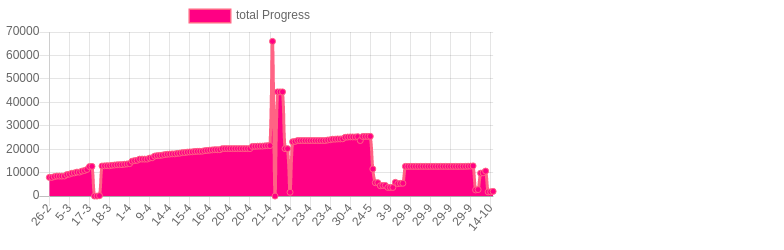
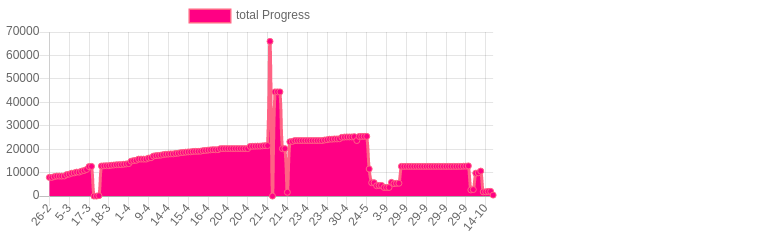
react context, localStorage, hooks

Changed region(s): [[0.0918, 0.14, 0.6429, 0.924], [0.1224, 0.7, 0.1531, 0.756], [0.0918, 0.756, 0.1224, 0.784]]

diff --git a/total.html b/total.html
@@ -9,7 +9,7 @@
         <script src="https://cdn.jsdelivr.net/npm/chart.js@2.8.0"></script>
         <script>
           var ctx = document.getElementById("total").getContext("2d");
-          const goLabelsDates = ["2021-02-27T01:37:43.112Z","2021-02-27T01:38:01.628Z","2021-03-01T13:41:18.753Z","2021-03-01T14:53:41.991Z","2021-03-01T15:08:00.851Z","2021-03-01T15:09:10.635Z","2021-03-01T15:22:55.385Z","2021-03-03T15:31:41.151Z","2021-03-05T14:02:13.446Z","2021-03-10T14:50:13.297Z","2021-03-11T01:54:03.424Z","2021-03-11T15:32:47.647Z","2021-03-11T16:01:51.191Z","2021-03-12T00:36:04.646Z","2021-03-13T00:14:58.179Z","2021-03-16T05:30:04.043Z","2021-03-17T21:17:52.181Z","2021-03-18T03:42:56.998Z","2021-03-18T03:44:29.834Z","2021-03-18T03:45:35.160Z","2021-03-18T03:45:54.668Z","2021-03-18T03:48:46.007Z","2021-03-18T05:10:54.427Z","2021-03-18T05:44:13.724Z","2021-03-18T05:56:11.032Z","2021-03-18T22:11:28.339Z","2021-03-19T11:28:55.383Z","2021-03-22T13:51:43.977Z","2021-03-23T01:52:09.452Z","2021-03-23T15:45:53.765Z","2021-03-24T01:46:02.104Z","2021-03-30T10:56:50.711Z","2021-04-01T15:03:17.764Z","2021-04-01T23:15:02.096Z","2021-04-07T19:21:55.040Z","2021-04-08T15:21:14.479Z","2021-04-09T23:17:58.037Z","2021-04-09T23:32:26.341Z","2021-04-09T23:34:42.049Z","2021-04-09T23:36:18.092Z","2021-04-10T01:45:40.218Z","2021-04-12T15:41:26.676Z","2021-04-14T02:00:41.039Z","2021-04-14T20:02:44.141Z","2021-04-14T21:14:15.821Z","2021-04-14T22:06:37.573Z","2021-04-14T22:42:14.693Z","2021-04-14T23:10:13.243Z","2021-04-14T23:22:54.824Z","2021-04-14T23:49:37.009Z","2021-04-15T02:28:51.974Z","2021-04-15T14:33:50.618Z","2021-04-15T15:09:11.104Z","2021-04-15T20:35:30.580Z","2021-04-16T00:04:33.158Z","2021-04-16T01:36:06.294Z","2021-04-16T01:53:35.992Z","2021-04-16T02:00:15.474Z","2021-04-16T16:08:40.977Z","2021-04-16T16:27:06.953Z","2021-04-16T16:59:30.526Z","2021-04-16T17:00:53.737Z","2021-04-16T23:14:36.283Z","2021-04-17T00:39:16.890Z","2021-04-17T01:11:09.986Z","2021-04-17T01:32:30.011Z","2021-04-17T01:44:22.446Z","2021-04-17T01:44:33.941Z","2021-04-17T02:35:55.774Z","2021-04-19T15:41:31.091Z","2021-04-20T15:32:32.239Z","2021-04-20T15:33:16.014Z","2021-04-20T15:36:11.438Z","2021-04-20T15:38:44.606Z","2021-04-20T15:41:50.350Z","2021-04-20T15:44:34.448Z","2021-04-20T15:46:49.295Z","2021-04-20T15:47:24.048Z","2021-04-20T15:56:22.046Z","2021-04-20T16:00:02.540Z","2021-04-20T16:01:15.511Z","2021-04-20T23:19:23.938Z","2021-04-21T00:40:54.443Z","2021-04-21T00:47:22.662Z","2021-04-21T02:01:09.006Z","2021-04-21T02:19:22.734Z","2021-04-21T15:53:36.038Z","2021-04-21T16:21:45.704Z","2021-04-21T16:26:32.790Z","2021-04-21T16:40:24.916Z","2021-04-21T16:43:40.235Z","2021-04-21T16:43:59.719Z","2021-04-21T16:44:40.304Z","2021-04-21T16:46:13.191Z","2021-04-21T16:48:41.898Z","2021-04-21T16:49:08.753Z","2021-04-21T16:50:32.397Z","2021-04-21T16:51:58.778Z","2021-04-23T00:49:32.826Z","2021-04-23T15:03:06.320Z","2021-04-23T15:04:13.039Z","2021-04-23T15:05:25.923Z","2021-04-23T15:11:04.285Z","2021-04-23T15:11:38.826Z","2021-04-23T15:12:05.618Z","2021-04-23T15:12:32.508Z","2021-04-23T15:13:17.058Z","2021-04-23T17:08:27.046Z","2021-04-23T18:02:30.357Z","2021-04-23T22:58:36.946Z","2021-04-23T23:00:26.027Z","2021-04-23T23:52:58.438Z","2021-04-24T01:12:51.525Z","2021-04-24T02:01:46.612Z","2021-04-26T12:46:47.336Z","2021-04-26T13:13:50.946Z","2021-04-26T13:16:04.473Z","2021-04-27T00:11:42.582Z","2021-04-30T03:26:37.101Z","2021-04-30T04:33:42.472Z","2021-04-30T05:15:42.646Z","2021-04-30T14:31:10.927Z","2021-05-04T01:51:49.907Z","2021-05-21T00:30:21.777Z","2021-05-24T15:07:09.579Z","2021-05-24T15:08:05.658Z","2021-05-24T15:22:20.903Z","2021-05-24T15:33:34.626Z","2021-05-24T15:46:16.101Z","2021-05-24T15:48:12.171Z","2021-05-24T15:53:54.498Z","2021-05-24T15:56:18.488Z","2021-05-28T22:50:32.914Z","2021-06-02T17:58:30.866Z","2021-07-01T05:04:25.826Z","2021-07-01T05:05:33.079Z","2021-09-03T16:56:54.023Z","2021-09-23T00:10:19.737Z","2021-09-23T00:54:30.987Z","2021-09-25T00:13:33.106Z","2021-09-25T00:56:09.874Z","2021-09-29T20:37:10.460Z","2021-09-29T20:39:45.107Z","2021-09-29T20:45:08.406Z","2021-09-29T20:45:42.995Z","2021-09-29T20:51:54.166Z","2021-09-29T21:04:45.487Z","2021-09-29T21:22:49.580Z","2021-09-29T21:23:34.860Z","2021-09-29T21:24:52.804Z","2021-09-29T21:25:12.938Z","2021-09-29T21:31:41.466Z","2021-09-29T21:32:02.856Z","2021-09-29T21:32:15.096Z","2021-09-29T21:37:01.273Z","2021-09-29T21:39:46.109Z","2021-09-29T21:40:23.862Z","2021-09-29T21:41:38.242Z","2021-09-29T21:45:36.053Z","2021-09-29T21:48:31.229Z","2021-09-29T21:49:46.414Z","2021-09-29T21:50:16.628Z","2021-09-29T21:52:23.035Z","2021-09-29T21:58:46.153Z","2021-09-29T21:59:06.075Z","2021-09-29T22:09:34.545Z","2021-09-29T22:24:59.487Z","2021-09-29T22:39:38.616Z","2021-09-29T23:07:40.178Z","2021-10-01T13:21:48.217Z","2021-10-01T14:11:47.682Z","2021-10-05T00:24:42.303Z","2021-10-05T14:36:34.233Z","2021-10-05T15:30:47.628Z","2021-10-13T14:16:32.194Z","2021-10-14T20:31:14.540Z","2021-10-15T02:04:50.667Z","2021-10-22T22:01:46.214Z",];
+          const goLabelsDates = ["2021-02-27T01:37:43.112Z","2021-02-27T01:38:01.628Z","2021-03-01T13:41:18.753Z","2021-03-01T14:53:41.991Z","2021-03-01T15:08:00.851Z","2021-03-01T15:09:10.635Z","2021-03-01T15:22:55.385Z","2021-03-03T15:31:41.151Z","2021-03-05T14:02:13.446Z","2021-03-10T14:50:13.297Z","2021-03-11T01:54:03.424Z","2021-03-11T15:32:47.647Z","2021-03-11T16:01:51.191Z","2021-03-12T00:36:04.646Z","2021-03-13T00:14:58.179Z","2021-03-16T05:30:04.043Z","2021-03-17T21:17:52.181Z","2021-03-18T03:42:56.998Z","2021-03-18T03:44:29.834Z","2021-03-18T03:45:35.160Z","2021-03-18T03:45:54.668Z","2021-03-18T03:48:46.007Z","2021-03-18T05:10:54.427Z","2021-03-18T05:44:13.724Z","2021-03-18T05:56:11.032Z","2021-03-18T22:11:28.339Z","2021-03-19T11:28:55.383Z","2021-03-22T13:51:43.977Z","2021-03-23T01:52:09.452Z","2021-03-23T15:45:53.765Z","2021-03-24T01:46:02.104Z","2021-03-30T10:56:50.711Z","2021-04-01T15:03:17.764Z","2021-04-01T23:15:02.096Z","2021-04-07T19:21:55.040Z","2021-04-08T15:21:14.479Z","2021-04-09T23:17:58.037Z","2021-04-09T23:32:26.341Z","2021-04-09T23:34:42.049Z","2021-04-09T23:36:18.092Z","2021-04-10T01:45:40.218Z","2021-04-12T15:41:26.676Z","2021-04-14T02:00:41.039Z","2021-04-14T20:02:44.141Z","2021-04-14T21:14:15.821Z","2021-04-14T22:06:37.573Z","2021-04-14T22:42:14.693Z","2021-04-14T23:10:13.243Z","2021-04-14T23:22:54.824Z","2021-04-14T23:49:37.009Z","2021-04-15T02:28:51.974Z","2021-04-15T14:33:50.618Z","2021-04-15T15:09:11.104Z","2021-04-15T20:35:30.580Z","2021-04-16T00:04:33.158Z","2021-04-16T01:36:06.294Z","2021-04-16T01:53:35.992Z","2021-04-16T02:00:15.474Z","2021-04-16T16:08:40.977Z","2021-04-16T16:27:06.953Z","2021-04-16T16:59:30.526Z","2021-04-16T17:00:53.737Z","2021-04-16T23:14:36.283Z","2021-04-17T00:39:16.890Z","2021-04-17T01:11:09.986Z","2021-04-17T01:32:30.011Z","2021-04-17T01:44:22.446Z","2021-04-17T01:44:33.941Z","2021-04-17T02:35:55.774Z","2021-04-19T15:41:31.091Z","2021-04-20T15:32:32.239Z","2021-04-20T15:33:16.014Z","2021-04-20T15:36:11.438Z","2021-04-20T15:38:44.606Z","2021-04-20T15:41:50.350Z","2021-04-20T15:44:34.448Z","2021-04-20T15:46:49.295Z","2021-04-20T15:47:24.048Z","2021-04-20T15:56:22.046Z","2021-04-20T16:00:02.540Z","2021-04-20T16:01:15.511Z","2021-04-20T23:19:23.938Z","2021-04-21T00:40:54.443Z","2021-04-21T00:47:22.662Z","2021-04-21T02:01:09.006Z","2021-04-21T02:19:22.734Z","2021-04-21T15:53:36.038Z","2021-04-21T16:21:45.704Z","2021-04-21T16:26:32.790Z","2021-04-21T16:40:24.916Z","2021-04-21T16:43:40.235Z","2021-04-21T16:43:59.719Z","2021-04-21T16:44:40.304Z","2021-04-21T16:46:13.191Z","2021-04-21T16:48:41.898Z","2021-04-21T16:49:08.753Z","2021-04-21T16:50:32.397Z","2021-04-21T16:51:58.778Z","2021-04-23T00:49:32.826Z","2021-04-23T15:03:06.320Z","2021-04-23T15:04:13.039Z","2021-04-23T15:05:25.923Z","2021-04-23T15:11:04.285Z","2021-04-23T15:11:38.826Z","2021-04-23T15:12:05.618Z","2021-04-23T15:12:32.508Z","2021-04-23T15:13:17.058Z","2021-04-23T17:08:27.046Z","2021-04-23T18:02:30.357Z","2021-04-23T22:58:36.946Z","2021-04-23T23:00:26.027Z","2021-04-23T23:52:58.438Z","2021-04-24T01:12:51.525Z","2021-04-24T02:01:46.612Z","2021-04-26T12:46:47.336Z","2021-04-26T13:13:50.946Z","2021-04-26T13:16:04.473Z","2021-04-27T00:11:42.582Z","2021-04-30T03:26:37.101Z","2021-04-30T04:33:42.472Z","2021-04-30T05:15:42.646Z","2021-04-30T14:31:10.927Z","2021-05-04T01:51:49.907Z","2021-05-21T00:30:21.777Z","2021-05-24T15:07:09.579Z","2021-05-24T15:08:05.658Z","2021-05-24T15:22:20.903Z","2021-05-24T15:33:34.626Z","2021-05-24T15:46:16.101Z","2021-05-24T15:48:12.171Z","2021-05-24T15:53:54.498Z","2021-05-24T15:56:18.488Z","2021-05-28T22:50:32.914Z","2021-06-02T17:58:30.866Z","2021-07-01T05:04:25.826Z","2021-07-01T05:05:33.079Z","2021-09-03T16:56:54.023Z","2021-09-23T00:10:19.737Z","2021-09-23T00:54:30.987Z","2021-09-25T00:13:33.106Z","2021-09-25T00:56:09.874Z","2021-09-29T20:37:10.460Z","2021-09-29T20:39:45.107Z","2021-09-29T20:45:08.406Z","2021-09-29T20:45:42.995Z","2021-09-29T20:51:54.166Z","2021-09-29T21:04:45.487Z","2021-09-29T21:22:49.580Z","2021-09-29T21:23:34.860Z","2021-09-29T21:24:52.804Z","2021-09-29T21:25:12.938Z","2021-09-29T21:31:41.466Z","2021-09-29T21:32:02.856Z","2021-09-29T21:32:15.096Z","2021-09-29T21:37:01.273Z","2021-09-29T21:39:46.109Z","2021-09-29T21:40:23.862Z","2021-09-29T21:41:38.242Z","2021-09-29T21:45:36.053Z","2021-09-29T21:48:31.229Z","2021-09-29T21:49:46.414Z","2021-09-29T21:50:16.628Z","2021-09-29T21:52:23.035Z","2021-09-29T21:58:46.153Z","2021-09-29T21:59:06.075Z","2021-09-29T22:09:34.545Z","2021-09-29T22:24:59.487Z","2021-09-29T22:39:38.616Z","2021-09-29T23:07:40.178Z","2021-10-01T13:21:48.217Z","2021-10-01T14:11:47.682Z","2021-10-05T00:24:42.303Z","2021-10-05T14:36:34.233Z","2021-10-05T15:30:47.628Z","2021-10-13T14:16:32.194Z","2021-10-14T20:31:14.540Z","2021-10-15T02:04:50.667Z","2021-10-22T22:01:46.214Z","2021-10-26T00:04:54.365Z","2021-10-26T00:05:44.432Z",];
           var chart = new Chart(ctx, {
             type: 'line',
             data: {
@@ -18,7 +18,7 @@
                 label: 'total Progress',
                 backgroundColor: 'rgb(255, 0, 132)',
                 borderColor: 'rgb(255, 99, 132)',
-                data: [7975,7975,8307,8526,8526,8527,8573,9171,9358,9751,9908,10232,10231,10643,10911,11353,12576,12666,0,0,169,12835,12906,12953,12953,13141,13254,13354,13406,13417,13568,13708,13845,14886,15140,15267,15766,15777,15777,15777,16211,16345,17062,17247,17324,17464,17697,17849,17916,18002,18002,18202,18292,18515,18590,18744,18837,18876,19030,19086,19114,19143,19378,19465,19607,19714,19782,19782,19791,20220,20257,20257,20257,20257,20257,20257,20257,20257,20257,20257,20257,21179,21238,21279,21319,21319,21430,21506,21543,65995,0,44452,44452,44452,20233,20233,1629,23172,23326,23693,23693,23693,23693,23693,23693,23693,23693,23693,23693,23693,23693,23905,24023,24262,24275,24376,24376,24452,25078,25182,25238,25232,25233,25334,23696,25427,25453,25466,25491,11565,5707,5707,4421,4535,4535,3678,3678,3678,5861,5318,5422,5473,12667,12667,12667,12667,12667,12667,12667,12667,12667,12667,12667,12667,12667,12667,12667,12667,12667,12667,12658,12658,12657,12657,12657,12657,12683,12736,12779,12888,2619,2775,9772,9922,10674,1795,1824,2002,]
+                data: [7975,7975,8307,8526,8526,8527,8573,9171,9358,9751,9908,10232,10231,10643,10911,11353,12576,12666,0,0,169,12835,12906,12953,12953,13141,13254,13354,13406,13417,13568,13708,13845,14886,15140,15267,15766,15777,15777,15777,16211,16345,17062,17247,17324,17464,17697,17849,17916,18002,18002,18202,18292,18515,18590,18744,18837,18876,19030,19086,19114,19143,19378,19465,19607,19714,19782,19782,19791,20220,20257,20257,20257,20257,20257,20257,20257,20257,20257,20257,20257,21179,21238,21279,21319,21319,21430,21506,21543,65995,0,44452,44452,44452,20233,20233,1629,23172,23326,23693,23693,23693,23693,23693,23693,23693,23693,23693,23693,23693,23693,23905,24023,24262,24275,24376,24376,24452,25078,25182,25238,25232,25233,25334,23696,25427,25453,25466,25491,11565,5707,5707,4421,4535,4535,3678,3678,3678,5861,5318,5422,5473,12667,12667,12667,12667,12667,12667,12667,12667,12667,12667,12667,12667,12667,12667,12667,12667,12667,12667,12658,12658,12657,12657,12657,12657,12683,12736,12779,12888,2619,2775,9772,9922,10674,1795,1824,2002,2000,422,]
               }]
             },
           });

diff --git a/denti-code.html b/denti-code.html
@@ -9,7 +9,7 @@
         <script src="https://cdn.jsdelivr.net/npm/chart.js@2.8.0"></script>
         <script>
           var ctx = document.getElementById("denti-code").getContext("2d");
-          const goLabelsDates = ["2021-03-18T03:42:56.996Z","2021-03-18T03:48:46.006Z","2021-03-18T05:10:54.426Z","2021-03-18T05:44:13.723Z","2021-03-18T05:56:11.031Z","2021-03-18T22:11:28.338Z","2021-03-19T11:28:55.381Z","2021-03-22T13:51:43.975Z","2021-03-23T01:52:09.450Z","2021-03-23T15:45:53.764Z","2021-03-24T01:46:02.102Z","2021-03-30T10:56:50.709Z","2021-04-01T15:03:17.762Z","2021-04-01T23:15:02.094Z","2021-04-07T19:21:55.037Z","2021-04-08T15:21:14.477Z","2021-04-09T23:17:58.034Z","2021-04-09T23:32:26.338Z","2021-04-09T23:34:42.046Z","2021-04-09T23:36:18.090Z","2021-04-10T01:45:40.216Z","2021-04-12T15:41:26.675Z","2021-04-14T02:00:41.038Z","2021-04-14T20:02:44.139Z","2021-04-14T21:14:15.820Z","2021-04-14T22:06:37.572Z","2021-04-14T22:42:14.692Z","2021-04-14T23:10:13.242Z","2021-04-14T23:22:54.823Z","2021-04-14T23:49:37.008Z","2021-04-15T02:28:51.973Z","2021-04-15T14:33:50.618Z","2021-04-15T15:09:11.101Z","2021-04-15T20:35:30.578Z","2021-04-16T00:04:33.156Z","2021-04-16T01:36:06.292Z","2021-04-16T01:53:35.990Z","2021-04-16T02:00:15.472Z","2021-04-16T16:08:40.974Z","2021-04-16T16:27:06.951Z","2021-04-16T16:59:30.523Z","2021-04-16T17:00:53.732Z","2021-04-16T23:14:36.281Z","2021-04-17T00:39:16.887Z","2021-04-17T01:11:09.984Z","2021-04-17T01:32:30.007Z","2021-04-17T01:44:22.441Z","2021-04-17T01:44:33.939Z","2021-04-17T02:35:55.772Z","2021-04-19T15:41:31.089Z","2021-04-20T15:32:32.237Z","2021-04-20T15:33:16.012Z","2021-04-20T15:36:11.437Z","2021-04-20T15:38:44.604Z","2021-04-20T15:41:50.349Z","2021-04-20T15:44:34.447Z","2021-04-20T15:46:49.293Z","2021-04-20T15:47:24.046Z","2021-04-20T15:56:22.045Z","2021-04-20T16:00:02.538Z","2021-04-20T16:01:15.510Z","2021-04-20T23:19:23.936Z","2021-04-21T00:40:54.441Z","2021-04-21T00:47:22.661Z","2021-04-21T02:01:09.004Z","2021-04-21T02:19:22.733Z","2021-04-21T15:53:36.036Z","2021-04-21T16:21:45.702Z","2021-04-21T16:26:32.788Z","2021-04-21T16:40:24.915Z","2021-04-21T16:51:58.776Z","2021-04-23T00:49:32.825Z","2021-04-23T15:03:06.327Z","2021-04-23T15:04:13.043Z","2021-04-23T15:05:25.920Z","2021-04-23T15:13:17.062Z","2021-04-23T17:08:27.042Z","2021-04-23T18:02:30.351Z","2021-04-23T22:58:36.942Z","2021-04-23T23:00:26.024Z","2021-04-23T23:52:58.435Z","2021-04-24T01:12:51.523Z","2021-04-24T02:01:46.608Z","2021-04-26T12:46:47.335Z","2021-04-26T13:13:50.942Z","2021-04-26T13:16:04.469Z","2021-04-27T00:11:42.578Z","2021-04-30T03:26:37.095Z","2021-04-30T04:33:42.471Z","2021-04-30T05:15:42.643Z","2021-04-30T14:31:10.924Z","2021-05-04T01:51:49.904Z","2021-05-21T00:30:21.766Z","2021-05-24T15:07:09.569Z","2021-05-24T15:08:05.654Z","2021-05-24T15:22:20.898Z","2021-05-24T15:33:34.622Z","2021-05-24T15:46:16.098Z","2021-05-24T15:48:12.169Z","2021-05-24T15:53:54.497Z","2021-05-24T15:56:18.483Z","2021-10-14T20:31:14.535Z","2021-10-15T02:04:50.663Z","2021-10-22T22:01:46.203Z",];
+          const goLabelsDates = ["2021-03-18T03:42:56.996Z","2021-03-18T03:48:46.006Z","2021-03-18T05:10:54.426Z","2021-03-18T05:44:13.723Z","2021-03-18T05:56:11.031Z","2021-03-18T22:11:28.338Z","2021-03-19T11:28:55.381Z","2021-03-22T13:51:43.975Z","2021-03-23T01:52:09.450Z","2021-03-23T15:45:53.764Z","2021-03-24T01:46:02.102Z","2021-03-30T10:56:50.709Z","2021-04-01T15:03:17.762Z","2021-04-01T23:15:02.094Z","2021-04-07T19:21:55.037Z","2021-04-08T15:21:14.477Z","2021-04-09T23:17:58.034Z","2021-04-09T23:32:26.338Z","2021-04-09T23:34:42.046Z","2021-04-09T23:36:18.090Z","2021-04-10T01:45:40.216Z","2021-04-12T15:41:26.675Z","2021-04-14T02:00:41.038Z","2021-04-14T20:02:44.139Z","2021-04-14T21:14:15.820Z","2021-04-14T22:06:37.572Z","2021-04-14T22:42:14.692Z","2021-04-14T23:10:13.242Z","2021-04-14T23:22:54.823Z","2021-04-14T23:49:37.008Z","2021-04-15T02:28:51.973Z","2021-04-15T14:33:50.618Z","2021-04-15T15:09:11.101Z","2021-04-15T20:35:30.578Z","2021-04-16T00:04:33.156Z","2021-04-16T01:36:06.292Z","2021-04-16T01:53:35.990Z","2021-04-16T02:00:15.472Z","2021-04-16T16:08:40.974Z","2021-04-16T16:27:06.951Z","2021-04-16T16:59:30.523Z","2021-04-16T17:00:53.732Z","2021-04-16T23:14:36.281Z","2021-04-17T00:39:16.887Z","2021-04-17T01:11:09.984Z","2021-04-17T01:32:30.007Z","2021-04-17T01:44:22.441Z","2021-04-17T01:44:33.939Z","2021-04-17T02:35:55.772Z","2021-04-19T15:41:31.089Z","2021-04-20T15:32:32.237Z","2021-04-20T15:33:16.012Z","2021-04-20T15:36:11.437Z","2021-04-20T15:38:44.604Z","2021-04-20T15:41:50.349Z","2021-04-20T15:44:34.447Z","2021-04-20T15:46:49.293Z","2021-04-20T15:47:24.046Z","2021-04-20T15:56:22.045Z","2021-04-20T16:00:02.538Z","2021-04-20T16:01:15.510Z","2021-04-20T23:19:23.936Z","2021-04-21T00:40:54.441Z","2021-04-21T00:47:22.661Z","2021-04-21T02:01:09.004Z","2021-04-21T02:19:22.733Z","2021-04-21T15:53:36.036Z","2021-04-21T16:21:45.702Z","2021-04-21T16:26:32.788Z","2021-04-21T16:40:24.915Z","2021-04-21T16:51:58.776Z","2021-04-23T00:49:32.825Z","2021-04-23T15:03:06.327Z","2021-04-23T15:04:13.043Z","2021-04-23T15:05:25.920Z","2021-04-23T15:13:17.062Z","2021-04-23T17:08:27.042Z","2021-04-23T18:02:30.351Z","2021-04-23T22:58:36.942Z","2021-04-23T23:00:26.024Z","2021-04-23T23:52:58.435Z","2021-04-24T01:12:51.523Z","2021-04-24T02:01:46.608Z","2021-04-26T12:46:47.335Z","2021-04-26T13:13:50.942Z","2021-04-26T13:16:04.469Z","2021-04-27T00:11:42.578Z","2021-04-30T03:26:37.095Z","2021-04-30T04:33:42.471Z","2021-04-30T05:15:42.643Z","2021-04-30T14:31:10.924Z","2021-05-04T01:51:49.904Z","2021-05-21T00:30:21.766Z","2021-05-24T15:07:09.569Z","2021-05-24T15:08:05.654Z","2021-05-24T15:22:20.898Z","2021-05-24T15:33:34.622Z","2021-05-24T15:46:16.098Z","2021-05-24T15:48:12.169Z","2021-05-24T15:53:54.497Z","2021-05-24T15:56:18.483Z","2021-10-14T20:31:14.535Z","2021-10-15T02:04:50.663Z","2021-10-22T22:01:46.203Z","2021-10-26T00:04:54.361Z",];
           var chart = new Chart(ctx, {
             type: 'line',
             data: {
@@ -18,7 +18,7 @@
                 label: 'denti-code Progress',
                 backgroundColor: 'rgb(255, 0, 132)',
                 borderColor: 'rgb(255, 99, 132)',
-                data: [0,169,240,287,287,475,588,607,607,618,618,618,618,618,618,618,618,618,618,618,618,618,618,618,618,618,618,618,618,618,618,618,618,618,618,618,618,618,618,618,618,618,618,618,618,618,618,618,618,618,618,618,618,618,618,618,618,618,618,618,618,618,618,618,658,658,674,674,674,674,674,674,674,674,674,674,674,674,674,674,674,674,674,674,674,674,756,1382,1486,1542,1542,1542,1638,0,1731,1731,1731,1731,1731,1731,1731,1795,1824,2002,]
+                data: [0,169,240,287,287,475,588,607,607,618,618,618,618,618,618,618,618,618,618,618,618,618,618,618,618,618,618,618,618,618,618,618,618,618,618,618,618,618,618,618,618,618,618,618,618,618,618,618,618,618,618,618,618,618,618,618,618,618,618,618,618,618,618,618,658,658,674,674,674,674,674,674,674,674,674,674,674,674,674,674,674,674,674,674,674,674,756,1382,1486,1542,1542,1542,1638,0,1731,1731,1731,1731,1731,1731,1731,1795,1824,2002,2000,]
               }]
             },
           });

diff --git a/react.html b/react.html
@@ -9,7 +9,7 @@
         <script src="https://cdn.jsdelivr.net/npm/chart.js@2.8.0"></script>
         <script>
           var ctx = document.getElementById("react").getContext("2d");
-          const goLabelsDates = ["2021-05-24T15:22:20.900Z","2021-05-24T15:33:34.624Z","2021-05-24T15:46:16.099Z","2021-05-24T15:48:12.170Z","2021-05-24T15:53:54.498Z","2021-05-24T15:56:18.484Z","2021-05-28T22:50:32.912Z","2021-06-02T17:58:30.865Z","2021-07-01T05:04:25.823Z","2021-07-01T05:05:33.078Z","2021-09-03T16:56:54.022Z","2021-09-23T00:10:19.736Z","2021-09-23T00:54:30.986Z","2021-09-25T00:13:33.104Z","2021-09-25T00:56:09.872Z","2021-09-29T20:37:10.455Z","2021-09-29T20:39:45.106Z","2021-09-29T20:45:08.405Z","2021-09-29T20:45:42.992Z","2021-09-29T20:51:54.164Z","2021-09-29T21:04:45.485Z","2021-09-29T21:22:49.578Z","2021-09-29T21:23:34.858Z","2021-09-29T21:24:52.803Z","2021-09-29T21:25:12.936Z","2021-09-29T21:31:41.463Z","2021-09-29T21:32:02.853Z","2021-09-29T21:32:15.094Z","2021-09-29T21:36:24.777Z","2021-09-29T21:37:01.271Z","2021-09-29T21:39:46.106Z","2021-09-29T21:40:23.860Z","2021-09-29T21:41:38.229Z","2021-09-29T21:45:36.048Z","2021-09-29T21:48:31.220Z","2021-09-29T21:49:46.410Z","2021-09-29T21:50:16.623Z","2021-09-29T21:52:23.031Z","2021-09-29T21:58:46.149Z","2021-09-29T21:59:06.072Z","2021-09-29T22:09:34.541Z","2021-09-29T22:24:59.483Z","2021-09-29T22:39:38.613Z","2021-09-29T23:07:40.174Z","2021-10-01T13:21:48.213Z","2021-10-01T14:11:47.678Z","2021-10-05T00:24:42.298Z",];
+          const goLabelsDates = ["2021-05-24T15:22:20.900Z","2021-05-24T15:33:34.624Z","2021-05-24T15:46:16.099Z","2021-05-24T15:48:12.170Z","2021-05-24T15:53:54.498Z","2021-05-24T15:56:18.484Z","2021-05-28T22:50:32.912Z","2021-06-02T17:58:30.865Z","2021-07-01T05:04:25.823Z","2021-07-01T05:05:33.078Z","2021-09-03T16:56:54.022Z","2021-09-23T00:10:19.736Z","2021-09-23T00:54:30.986Z","2021-09-25T00:13:33.104Z","2021-09-25T00:56:09.872Z","2021-09-29T20:37:10.455Z","2021-09-29T20:39:45.106Z","2021-09-29T20:45:08.405Z","2021-09-29T20:45:42.992Z","2021-09-29T20:51:54.164Z","2021-09-29T21:04:45.485Z","2021-09-29T21:22:49.578Z","2021-09-29T21:23:34.858Z","2021-09-29T21:24:52.803Z","2021-09-29T21:25:12.936Z","2021-09-29T21:31:41.463Z","2021-09-29T21:32:02.853Z","2021-09-29T21:32:15.094Z","2021-09-29T21:36:24.777Z","2021-09-29T21:37:01.271Z","2021-09-29T21:39:46.106Z","2021-09-29T21:40:23.860Z","2021-09-29T21:41:38.229Z","2021-09-29T21:45:36.048Z","2021-09-29T21:48:31.220Z","2021-09-29T21:49:46.410Z","2021-09-29T21:50:16.623Z","2021-09-29T21:52:23.031Z","2021-09-29T21:58:46.149Z","2021-09-29T21:59:06.072Z","2021-09-29T22:09:34.541Z","2021-09-29T22:24:59.483Z","2021-09-29T22:39:38.613Z","2021-09-29T23:07:40.174Z","2021-10-01T13:21:48.213Z","2021-10-01T14:11:47.678Z","2021-10-05T00:24:42.298Z","2021-10-26T00:05:44.428Z",];
           var chart = new Chart(ctx, {
             type: 'line',
             data: {
@@ -18,7 +18,7 @@
                 label: 'react Progress',
                 backgroundColor: 'rgb(255, 0, 132)',
                 borderColor: 'rgb(255, 99, 132)',
-                data: [26,26,26,26,26,26,26,26,26,26,26,26,26,26,26,26,26,26,26,26,26,26,26,26,26,26,26,26,26,26,26,26,26,26,26,26,26,26,26,26,26,26,26,26,26,197,197,]
+                data: [26,26,26,26,26,26,26,26,26,26,26,26,26,26,26,26,26,26,26,26,26,26,26,26,26,26,26,26,26,26,26,26,26,26,26,26,26,26,26,26,26,26,26,26,26,197,197,422,]
               }]
             },
           });

diff --git a/config.js b/config.js
@@ -8,7 +8,7 @@ const configLn = [
     src: ['../../react-native/reactnDoctor1/components', '../../react-native/reactnDoctor1/screens', '../../react-native/reactnDoctor1/navigation', '../../react-native/reactnDoctor1/hooks'],
     goal: 2000
   }, */
-  {
+ /*  {
     ln: 'denti-code',
     title: "JavaScript Denti",
     subjects: [
@@ -16,7 +16,7 @@ const configLn = [
     ],
     src: ['../../node/denti-code/src', '../../node/denti-code-server'],
     goal: 2000
-  },
+  }, */
   /* {
     ln: 'shopping-cart',
     title: "React Shopping Cart",
@@ -34,14 +34,14 @@ const configLn = [
     ],
     goal: 7000
   }, */
-  /* {
+  {
     ln: 'react',
     title: "React",
     subjects: [
       "Testing, builds"
     ],
     goal: 1000
-  }, */
+  },
   /*  {
      ln: 'ts',
      title: "TS",

diff --git a/Readme.md b/Readme.md
@@ -1,11 +1,11 @@
 # All count
 |Language|Goal|Lines%|%|%|%|Subjects|
 |----------|-------|-------|--------|--------|--------|--------|
-|denti-code|10000|2002|20|![denti-code](https://raw.githubusercontent.com/kapit4n/l-10000-dev/master/denti-code.png)|react,, hooks|App, App, App, Nav, logo, reportWebVitals, requeriments, setupTests, Readme, app, breadcrumb, www, client files, doctors, patients, records, 20210323105958 create user, 20210427012229 create doctor, 20210428201240 create record, 20210430033210 create client file, clientfile, doctor, patient, record, client files, clients, doctors, patients, records, 20210323105420 demo user, node, main, main, main, main, record popup, index mount, index shallow, main, list|
-|TOTAL|2002|20.020%|
+|react|1000|422|42|![react](https://raw.githubusercontent.com/kapit4n/l-10000-dev/master/react.png)|Testing, builds|react context local staorage, react context update, react context, react hooks tips, react hooks, components|
+|TOTAL|422|4.220%|
 10/02(0)
 
-10/03(2002)
+10/03(422)
 
 
   # run it
@@ -28,4 +28,4 @@
   * Angular, React, Vue
   * Spring, Play
   * Scala, Java
-  , 2021-10-22T22:01:46.214Z
+  , 2021-10-26T00:05:44.432Z
